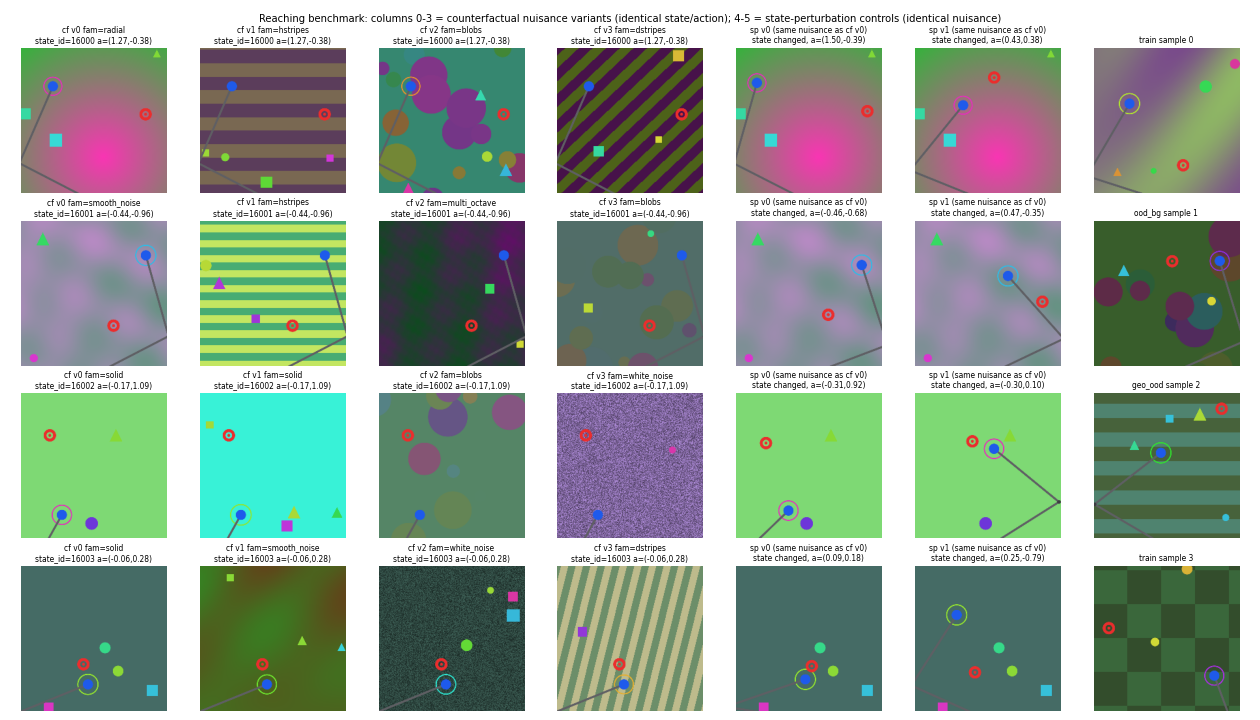
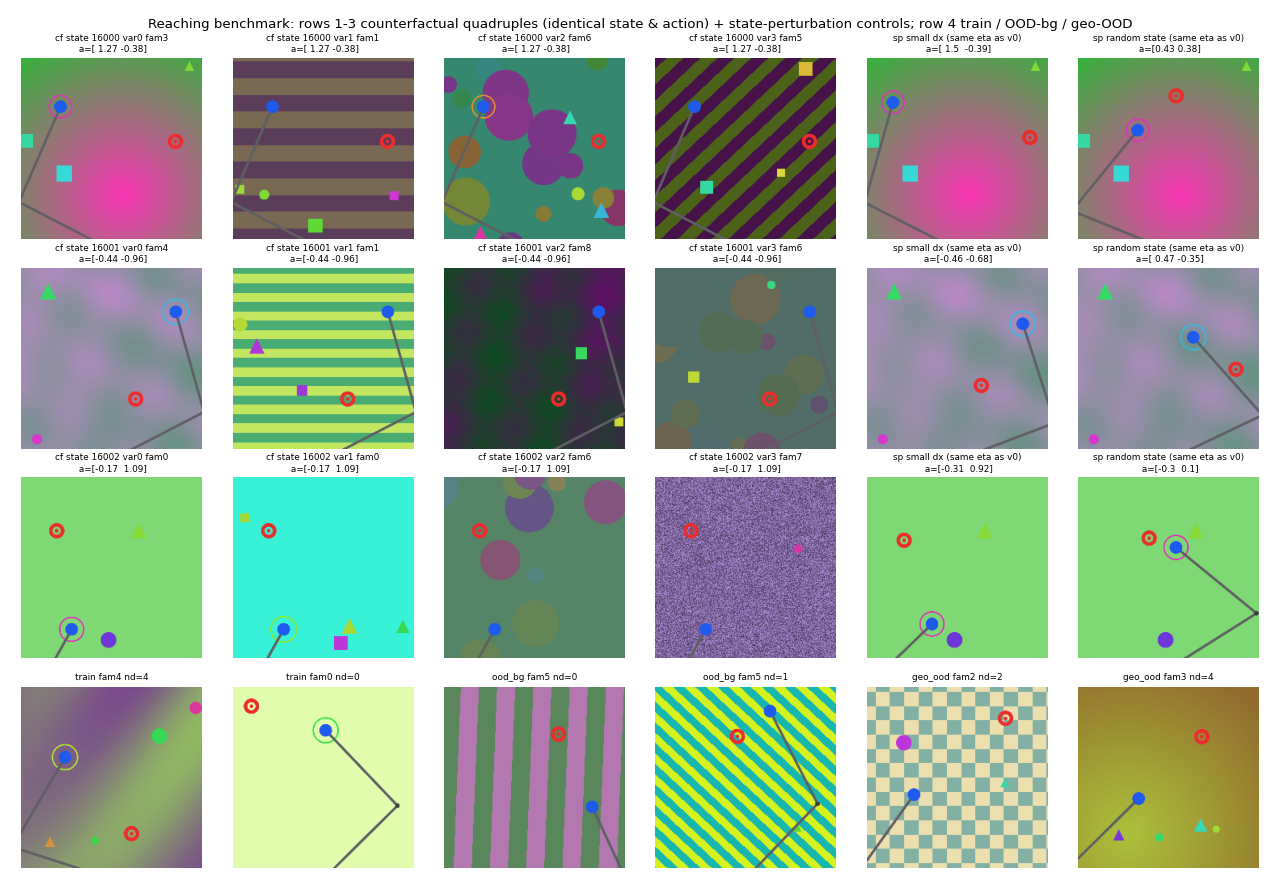
P1: synthetic 2D reaching benchmark (renderer, generator, dataset, counterfactual tests)

diff --git a/cort_mvp/features/frozen_dino.py b/cort_mvp/features/frozen_dino.py
@@ -1,0 +1,105 @@
+"""
+Frozen pretrained visual backbones (P2).
+
+Primary:  DINOv3 ViT-S/16  (timm `vit_small_patch16_dinov3.lvd1689m`, HF repo `timm/vit_small_patch16_dinov3.lvd1689m`)
+Fallback: DINOv2 ViT-S/14  (timm `vit_small_patch14_dinov2.lvd142m`, run at 224px with resampled pos-embed)
+
+Both are redistributed, ungated timm checkpoints (the `facebook/dinov3-*` repos are gated and were not accessible).
+
+Feature strategies cached for every image:
+  cls         : CLS token after the final norm                        (primary feature `h` for all models)
+  patch_mean  : mean of patch tokens (register tokens excluded)       (diagnostic alternative)
+"""
+from __future__ import annotations
+
+import os
+import re
+from dataclasses import dataclass
+
+import huggingface_hub as _hf
+
+# --- compatibility shim: huggingface_hub>=2 removed `repo_type_and_id_from_hf_id`, which timm imports at module load
+# (only used for pushing models to the hub). Provide a minimal implementation so `timm.create_model(pretrained=True)` works.
+if not hasattr(_hf, "repo_type_and_id_from_hf_id"):
+    def repo_type_and_id_from_hf_id(hf_id: str, hub_url: str | None = None):
+        hf_id = re.sub(r"^https?://[^/]+/", "", hf_id)
+        parts = hf_id.split("/")
+        repo_type = None
+        if parts[0] in ("models", "datasets", "spaces"):
+            repo_type = parts.pop(0).rstrip("s")
+        namespace = parts[0] if len(parts) > 1 else None
+        return repo_type, namespace, parts[-1]
+    _hf.repo_type_and_id_from_hf_id = repo_type_and_id_from_hf_id
+
+import timm  # noqa: E402
+import torch  # noqa: E402
+import torch.nn as nn  # noqa: E402
+
+BACKBONES = {
+    "dinov3_vits16": dict(timm_name="vit_small_patch16_dinov3.lvd1689m", img_size=224),
+    "dinov3_vitb16": dict(timm_name="vit_base_patch16_dinov3.lvd1689m", img_size=224),
+    "dinov2_vits14": dict(timm_name="vit_small_patch14_dinov2.lvd142m", img_size=224),
+    "dinov2_vitb14": dict(timm_name="vit_base_patch14_dinov2.lvd142m", img_size=224),
+}
+
+IMAGENET_MEAN = (0.485, 0.456, 0.406)
+IMAGENET_STD = (0.229, 0.224, 0.225)
+
+
+@dataclass
+class BackboneInfo:
+    name: str
+    timm_name: str
+    hf_hub_id: str
+    hf_revision: str
+    img_size: int
+    feature_dim: int
+    num_prefix_tokens: int
+    num_params: int
+    preprocessing: str
+
+
+class FrozenDino(nn.Module):
+    def __init__(self, name: str = "dinov3_vits16", device: str = "cuda"):
+        super().__init__()
+        spec = BACKBONES[name]
+        self.name = name
+        self.model = timm.create_model(spec["timm_name"], pretrained=True, num_classes=0, img_size=spec["img_size"])
+        self.model.eval().requires_grad_(False)
+        self.register_buffer("mean", torch.tensor(IMAGENET_MEAN).view(1, 3, 1, 1))
+        self.register_buffer("std", torch.tensor(IMAGENET_STD).view(1, 3, 1, 1))
+        self.to(device)
+        self.device = device
+        pc = self.model.pretrained_cfg
+        hub_id = pc.get("hf_hub_id", "")
+        revision = "unknown"
+        try:
+            p = _hf.hf_hub_download(hub_id, "model.safetensors")
+            m = re.search(r"/snapshots/([0-9a-f]{40})/", p)
+            if m:
+                revision = m.group(1)
+        except Exception:
+            pass
+        self.info = BackboneInfo(
+            name=name, timm_name=spec["timm_name"], hf_hub_id=hub_id, hf_revision=revision, img_size=spec["img_size"],
+            feature_dim=int(self.model.num_features), num_prefix_tokens=int(self.model.num_prefix_tokens),
+            num_params=sum(p.numel() for p in self.model.parameters()),
+            preprocessing=f"uint8 RGB -> float [0,1] -> resize to {spec['img_size']} (bilinear, if needed) -> "
+                          f"normalize ImageNet mean/std; eval mode, fp32, no augmentation",
+        )
+
+    def train(self, mode: bool = True):  # always frozen / eval
+        return super().train(False)
+
+    @torch.no_grad()
+    def forward(self, images_uint8_hwc: torch.Tensor | None = None, *, images_float_chw: torch.Tensor | None = None) -> dict:
+        if images_float_chw is None:
+            x = images_uint8_hwc.to(self.device, non_blocking=True).permute(0, 3, 1, 2).float() / 255.0
+        else:
+            x = images_float_chw.to(self.device, non_blocking=True).float()
+        if x.shape[-1] != self.info.img_size:
+            x = torch.nn.functional.interpolate(x, size=(self.info.img_size, self.info.img_size), mode="bilinear", align_corners=False)
+        x = (x - self.mean) / self.std
+        tokens = self.model.forward_features(x)           # (B, 1 + regs + P, D), after final norm
+        npre = self.info.num_prefix_tokens
+        return {"cls": tokens[:, 0], "patch_mean": tokens[:, npre:].mean(1)}

diff --git a/cort_mvp/features/cache_features.py b/cort_mvp/features/cache_features.py
@@ -1,0 +1,93 @@
+"""
+Extract and cache frozen backbone features for every split of a reaching dataset.
+
+    python -m cort_mvp.features.cache_features --data data_cache/reaching_v1 --backbone dinov3_vits16
+
+Output: results/features/<dataset_name>/<backbone>/<split>.npz   {cls, patch_mean, index}
+        results/features/<dataset_name>/<backbone>/meta.json      backbone id/revision, preprocessing, shapes,
+                                                                   per-split sha256, determinism check
+"""
+from __future__ import annotations
+
+import argparse
+import hashlib
+import json
+import time
+from dataclasses import asdict
+from pathlib import Path
+
+import numpy as np
+import torch
+from torch.utils.data import DataLoader
+
+from cort_mvp.data.reaching_dataset import ReachingSplit, all_splits
+from cort_mvp.features.frozen_dino import FrozenDino
+
+
+def _collate(batch):
+    return {"image": torch.from_numpy(np.stack([b["image"] for b in batch])), "index": torch.stack([b["index"] for b in batch])}
+
+
+def extract_split(model: FrozenDino, ds: ReachingSplit, batch_size: int, workers: int) -> dict:
+    dl = DataLoader(ds, batch_size=batch_size, shuffle=False, num_workers=workers, collate_fn=_collate, pin_memory=True)
+    cls, pm, idx = [], [], []
+    for b in dl:
+        out = model(b["image"])
+        cls.append(out["cls"].float().cpu()); pm.append(out["patch_mean"].float().cpu()); idx.append(b["index"])
+    return {"cls": torch.cat(cls).numpy(), "patch_mean": torch.cat(pm).numpy(), "index": torch.cat(idx).numpy()}
+
+
+def sha(a: np.ndarray) -> str:
+    return hashlib.sha256(np.ascontiguousarray(a).tobytes()).hexdigest()[:16]
+
+
+def main():
+    ap = argparse.ArgumentParser()
+    ap.add_argument("--data", default="data_cache/reaching_v1")
+    ap.add_argument("--backbone", default="dinov3_vits16")
+    ap.add_argument("--out", default="results/features")
+    ap.add_argument("--batch_size", type=int, default=256)
+    ap.add_argument("--workers", type=int, default=6)
+    ap.add_argument("--splits", nargs="*", default=None)
+    args = ap.parse_args()
+
+    torch.backends.cuda.matmul.allow_tf32 = False
+    torch.backends.cudnn.allow_tf32 = False
+    data = Path(args.data)
+    out = Path(args.out) / data.name / args.backbone
+    out.mkdir(parents=True, exist_ok=True)
+    model = FrozenDino(args.backbone, device="cuda" if torch.cuda.is_available() else "cpu")
+    print("backbone:", asdict(model.info))
+
+    meta = {"backbone": asdict(model.info), "dataset": str(data), "splits": {}, "feature_keys": ["cls", "patch_mean"],
+            "primary_feature": "cls", "created": time.strftime("%Y-%m-%d %H:%M:%S")}
+    splits = args.splits or all_splits(data)
+    t0 = time.time()
+    for name in splits:
+        ds = ReachingSplit(data, name)
+        feats = extract_split(model, ds, args.batch_size, args.workers)
+        assert np.isfinite(feats["cls"]).all() and np.isfinite(feats["patch_mean"]).all(), f"non-finite features in {name}"
+        assert np.array_equal(feats["index"], np.arange(len(ds)))
+        np.savez(out / f"{name}.npz", **feats)
+        meta["splits"][name] = {"n": int(len(ds)), "cls_shape": list(feats["cls"].shape), "cls_sha256": sha(feats["cls"]),
+                                "patch_mean_sha256": sha(feats["patch_mean"]),
+                                "cls_norm_mean": float(np.linalg.norm(feats["cls"], axis=1).mean())}
+        print(f"[{time.time() - t0:6.1f}s] {name:12s} {feats['cls'].shape}  sha={meta['splits'][name]['cls_sha256']}")
+
+    # determinism check: re-extract the first 512 train images and compare
+    ds = ReachingSplit(data, "train")
+    sub = torch.utils.data.Subset(ds, range(min(512, len(ds))))
+    sub.meta = ds.meta
+    a = extract_split(model, sub, args.batch_size, 0)["cls"]
+    b = extract_split(model, sub, args.batch_size, 0)["cls"]
+    cached = np.load(out / "train.npz")["cls"][: len(a)]
+    meta["determinism"] = {"max_abs_diff_repeat": float(np.abs(a - b).max()), "max_abs_diff_vs_cache": float(np.abs(a - cached).max()),
+                           "tolerance": 1e-4, "passed": bool(np.abs(a - b).max() < 1e-4 and np.abs(a - cached).max() < 1e-4)}
+    print("determinism:", meta["determinism"])
+    with open(out / "meta.json", "w") as f:
+        json.dump(meta, f, indent=2)
+    print("wrote", out / "meta.json")
+
+
+if __name__ == "__main__":
+    main()
